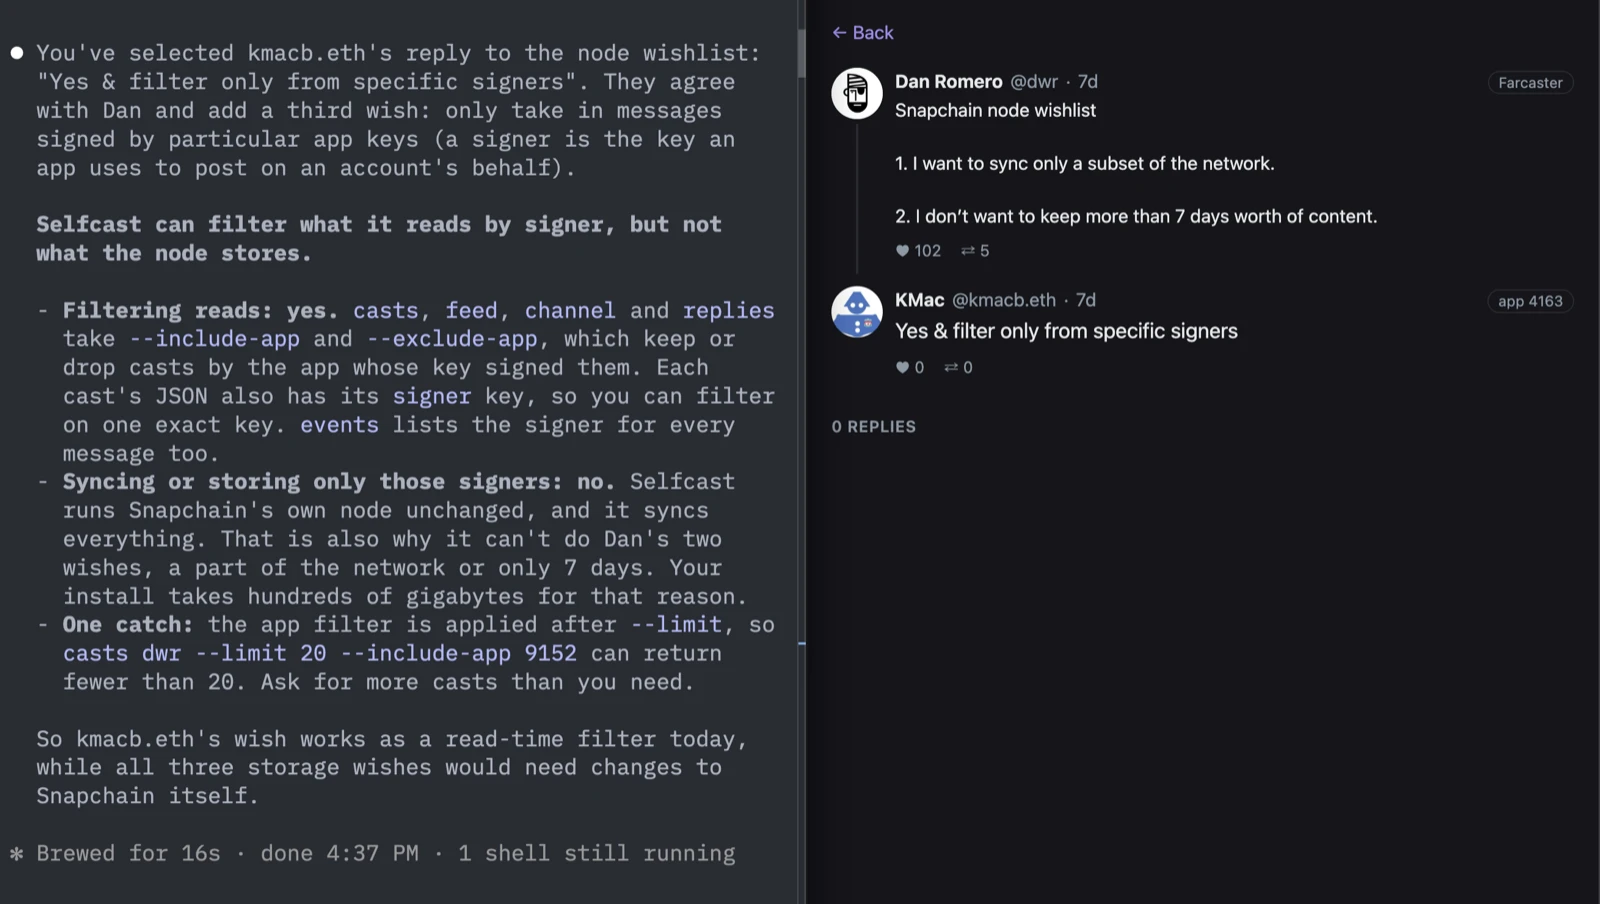
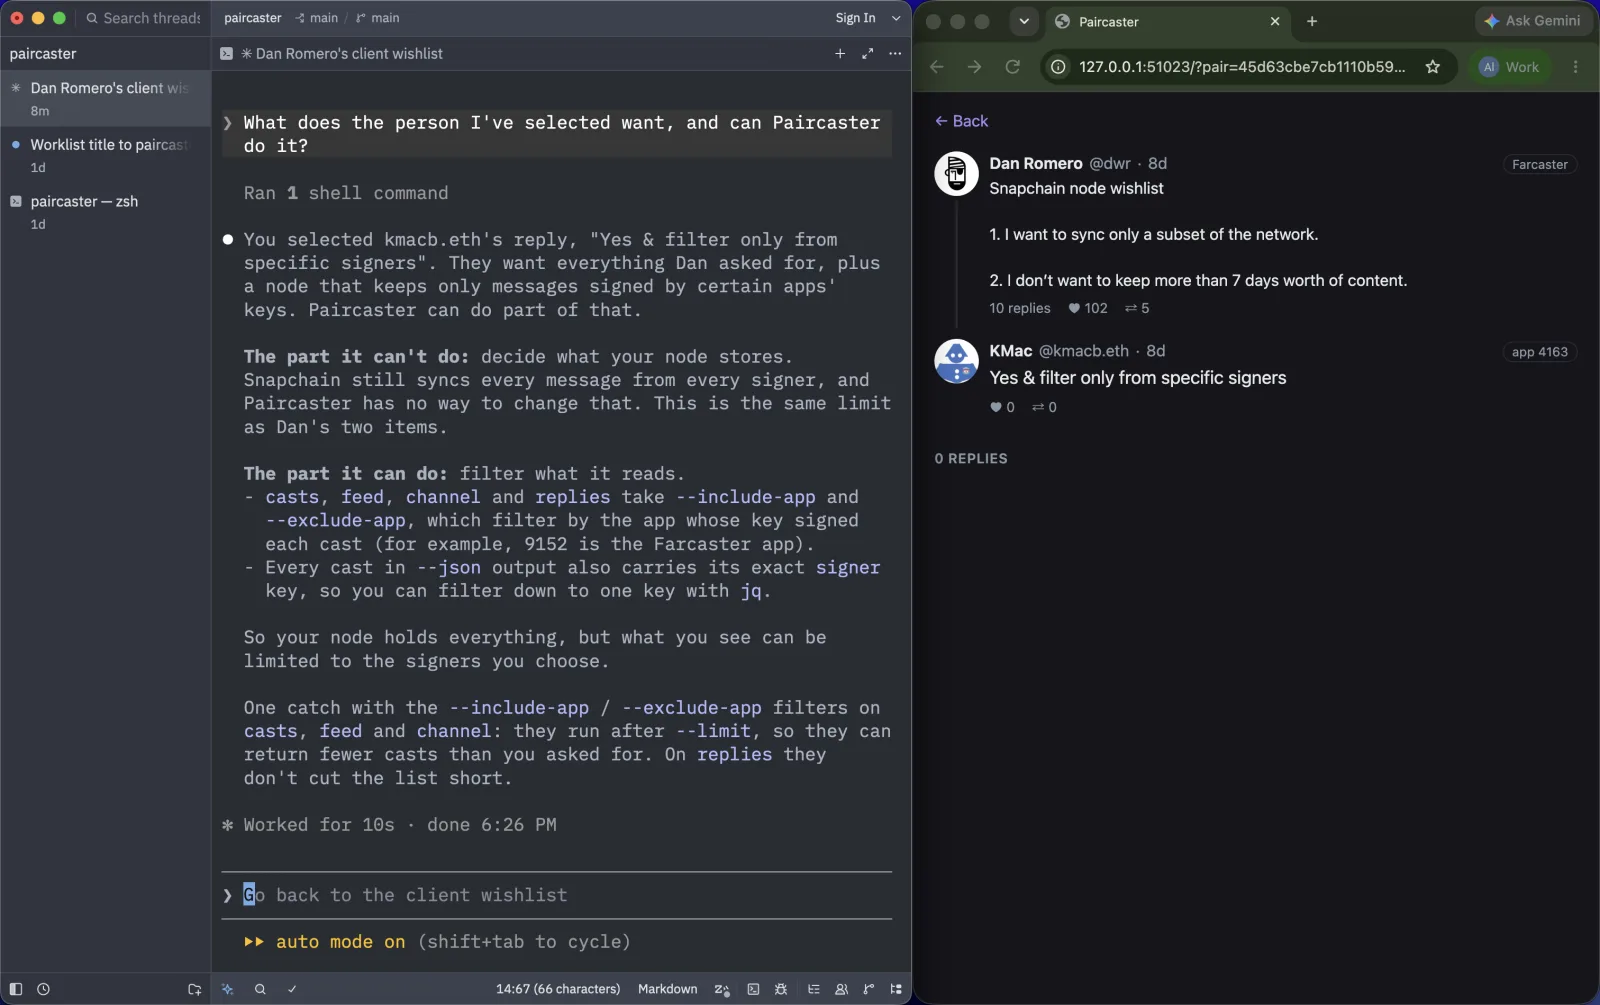
docs: rerun the viewer guide on the new page, with nested and folded replies, the agent's caption, marking several casts and a profile, and new screenshots

diff --git a/docs/agent.md b/docs/agent.md
@@ -96,7 +96,7 @@ cargo install --path crates/cli --locked --features viewer
 ```
 
 ```output
-dist/: index.html 3423 bytes, viewer.js 1243596 (wasm 901114)
+dist/: index.html 9934 bytes, viewer.js 1277854 (wasm 912374)
 ```
 
 `bun build.ts` prints the line above; the other steps print their usual output.
@@ -150,9 +150,17 @@ I found both by searching his newest 1,000 casts for "wishlist", "client" and "n
 
 > Show me just the replies worth reading.
 
-It read the thread with `paircaster thread --json`, chose six replies, and opened the thread with only those, in its order. The rest fold behind a "Show all" button. The reply names each cast by its author and a few of its words, so you can find it on the page, and says why it chose it:
+It read the replies with `paircaster replies --json`, and the replies to four of them, chose six, and opened the thread with those first, in its order, under a caption it wrote:
 
-<showcase type="image" src="images/viewer-replies.webp" frame="1600x904" alt="The agent's reply in a terminal on the left, listing six replies with a reason for each; on the right, the client wishlist in the browser under the heading 6 of 16 replies, the first of them Dan Romero's own continuation of the list." caption="Six of the wishlist's 16 replies, in the agent's order." />
+```run
+paircaster viewer open 'paircaster://paircaster/thread/3:0x597007de6219f87fdf71ad5769db542c8f2d1dde?only=3:0x660b6bf526a5d977b2cabcfebbfb350f700ec21f,10695:0x01e2c6a1839d389c824ad1550f3b6c2c817abb99,516505:0x0896e38bb856e0859090c4e0a39f7941cc3ceea5,3036:0x459499297ad8d9be01ca88a4c1124e05766d38d4,8332:0x9263e9b11e1c8cfb2a946299098caeb61b229dd0,4167:0x67b18976a4cb53aeb36687f4813b7bbcf5184df1&caption=6%20of%2016%20replies%20worth%20reading%2C%20best%20first#cast=3:0x40a0d26b7ea3c4ef79b1f574ff2261a535cb84c6'
+```
+
+The other ten fold into one line below them, which opens with a click. `#cast=` marks Dan Romero's answer to one of the six, which the page draws nested under it. The reply names each cast by its author and a few of its words, so you can find it on the page, and says why it chose it:
+
+<showcase type="image" src="images/viewer-replies.webp" frame="1600x1005" alt="The agent's reply in a terminal on the left, listing six replies with a reason for each; on the right, the client wishlist in the browser under the heading 6 of 16 replies: Dan Romero's own continuation of the list with two replies nested under it, then jdl's 'sounds difficult to scale' with Dan's marked answer 'I just want it for me.' nested beneath, each card showing its reply, like and recast counts." caption="Six of the wishlist's 16 replies, in the agent's order, with replies to them nested underneath." />
+
+Each card shows its replies, likes and recasts once the page has read them. Replies nest under the reply they answer, three levels deep (two in a narrow pane); a quoted cast shows as a small card; resting the pointer on an author shows their bio and follow counts.
 
 ### You point, the agent reads
 
@@ -165,18 +173,38 @@ It opened that thread. In the page, click KMac's reply, "Yes & filter only from 
 The agent learns what you clicked only when it runs `viewer state`, and it ran that first:
 
 ```output
-told selfcast
+told paircaster
 message: the thread of 4163:0x45563785c747be1f0c407defdae26e3b5d4f596b by @kmacb.eth ("Yes & filter only from specific signers"), 1 cast above it, 0 replies
-result: {"back":["3:0x35f104e944de03c93cc4eb513e8b84cef58d9b77"],"cast":"4163:0x45563785c747be1f0c407defdae26e3b5d4f596b","node":"http://localhost:3381","selected":null,"user_selected":"selfcast://selfcast/thread/4163:0x45563785c747be1f0c407defdae26e3b5d4f596b","view":"thread"}
+result: {"back":["3:0x35f104e944de03c93cc4eb513e8b84cef58d9b77"],"caption":null,"cast":"4163:0x45563785c747be1f0c407defdae26e3b5d4f596b","continued":[],"depth":3,"folded":[],"node":"http://localhost:3381","selected":null,"user_marked":null,"user_selected":"paircaster://paircaster/thread/4163:0x45563785c747be1f0c407defdae26e3b5d4f596b","view":"thread"}
 ```
 
-`user_selected` is the cast you last clicked or opened in the page; only you change it, never what the agent opens. `view` and `cast` are what is on screen, `back` is what Back returns to, and `selected` lists casts the agent marked (none here). It then read the reply and the post above it, and answered:
+`user_selected` is the cast you last clicked or opened in the page; only you change it, never what the agent opens. `view` and `cast` are what is on screen, `back` is what Back returns to, `selected` lists the casts marked on the page (none here), `folded` the casts still folded, and `caption` the agent's caption (none on this view). It answered:
 
-<showcase type="image" src="images/viewer-pointing.webp" frame="1600x904" alt="The agent's answer in a terminal on the left: Paircaster can filter what it reads by signer, but not what the node stores. On the right, the browser shows Dan Romero's Snapchain node wishlist with KMac's reply under it, opened by the click." caption="The reply you clicked, and the agent's answer about it." />
+<showcase type="image" src="images/viewer-pointing.webp" frame="1600x1005" alt="The agent's answer in a terminal on the left: Paircaster cannot change what the node stores, but can filter what it reads by the app that signed each cast. On the right, the browser shows Dan Romero's Snapchain node wishlist with KMac's reply under it, opened by the click." caption="The reply you clicked, and the agent's answer about it." />
+
+### Several at once
+
+Back on the node wishlist, hold <kbd>Cmd</kbd> (<kbd>Ctrl</kbd> elsewhere) and click two of trish's replies, "I might like this except I can't" and "So very banned": each is marked, and the page stays where it is. <kbd>Shift</kbd>-click marks every cast between the last one you pointed at and this one. Then:
+
+> What do the ones I marked have in common?
+
+`viewer state` gave them as `user_marked`, a moniker of the view with the marked casts in the order you marked them:
+
+```output
+told paircaster
+message: the thread of 3:0x35f104e944de03c93cc4eb513e8b84cef58d9b77 by @dwr ("Snapchain node wishlist 1. I want to sync only a subset of the network. 2. I don"), 0 casts above it, 10 replies; selected 4877:0xe397007269cb82f1e34b014b9bb107f62adaa8df by @trish ("I might like this except I can’t "); 4877:0x6cb52a4d6c3bd9050e6dbf44bcb805deb01c22a6 by @trish ("So very banned ")
+result: {"back":[],"caption":null,"cast":"3:0x35f104e944de03c93cc4eb513e8b84cef58d9b77","continued":[],"depth":3,"folded":[],"node":"http://localhost:3381","selected":["4877:0xe397007269cb82f1e34b014b9bb107f62adaa8df","4877:0x6cb52a4d6c3bd9050e6dbf44bcb805deb01c22a6"],"user_marked":"paircaster://paircaster/thread/3:0x35f104e944de03c93cc4eb513e8b84cef58d9b77#cast=4877:0xe397007269cb82f1e34b014b9bb107f62adaa8df,4877:0x6cb52a4d6c3bd9050e6dbf44bcb805deb01c22a6","user_selected":"paircaster://paircaster/thread/3:0x35f104e944de03c93cc4eb513e8b84cef58d9b77#cast=4877:0x6cb52a4d6c3bd9050e6dbf44bcb805deb01c22a6","view":"thread"}
+```
+
+It read both casts with `paircaster show`, the thread of the second, and the profile of the app that signed them, and answered:
+
+<showcase type="image" src="images/viewer-marking.webp" frame="1600x1005" alt="The agent's answer in a terminal on the left: both marked casts are trish's, saying she is banned, signed by the Firefly app's key. On the right, the node wishlist in the browser with trish's reply and her nested answer 'So very banned' both marked with a bar down their left edge, and psydeffects' question between them." caption="Two casts you marked, and what the agent found they share." />
+
+The agent can also put up an account: `paircaster viewer open 'paircaster://paircaster/profile/3'` shows Dan Romero's picture, bio and follow counts, and his 25 latest casts.
 
 <limit>
 
-The page cannot tell whether you are looking at it, or whether you or the agent put up what it shows now: only `user_selected` is always yours. Without `--images` it loads nothing but from your node, and shows initials; the screenshots above were taken with `--images`. With it, each profile picture loads from the server its account chose, which learns your address and when you looked. Images in casts are not shown either way. `viewer open` and `viewer state` fail when no page is open, and say so.
+The page cannot tell whether you are looking at it, or whether you or the agent put up what it shows now: only `user_selected` and `user_marked` are always yours. Without `--images` it loads nothing but from your node, and shows initials, and an image in a cast stays a link. With it, each profile picture and each image in a cast loads from the server its account or cast chose, which learns your address and when you looked. `viewer open` and `viewer state` fail when no page is open, and say so.
 
 </limit>
 

diff --git a/docs/index.md b/docs/index.md
@@ -190,7 +190,7 @@ Each idea is explained where the guide first uses it.
 - A cast sent with `--embed`.
 - The [agent skill](agent.md) in agents other than Claude Code and Codex, writes through Codex, and whether harness rules prompt outside Claude Code's auto mode.
 - A shutdown or logout with the node running; a restart with Docker other than OrbStack.
-- The viewer in browsers other than Chrome.
+- The viewer in browsers other than Chrome, and images in casts drawn inline with `--images`.
 - The agent's install where it installs the node: its hand-over of Snapchain's installer and the snapshot download has not been seen. Also the install where Rust or Bun is missing, and through Codex.
 - For a node installed some other way than this guide's: reaching its API through a web proxy, and pointing `node status` at its install directory.
 
